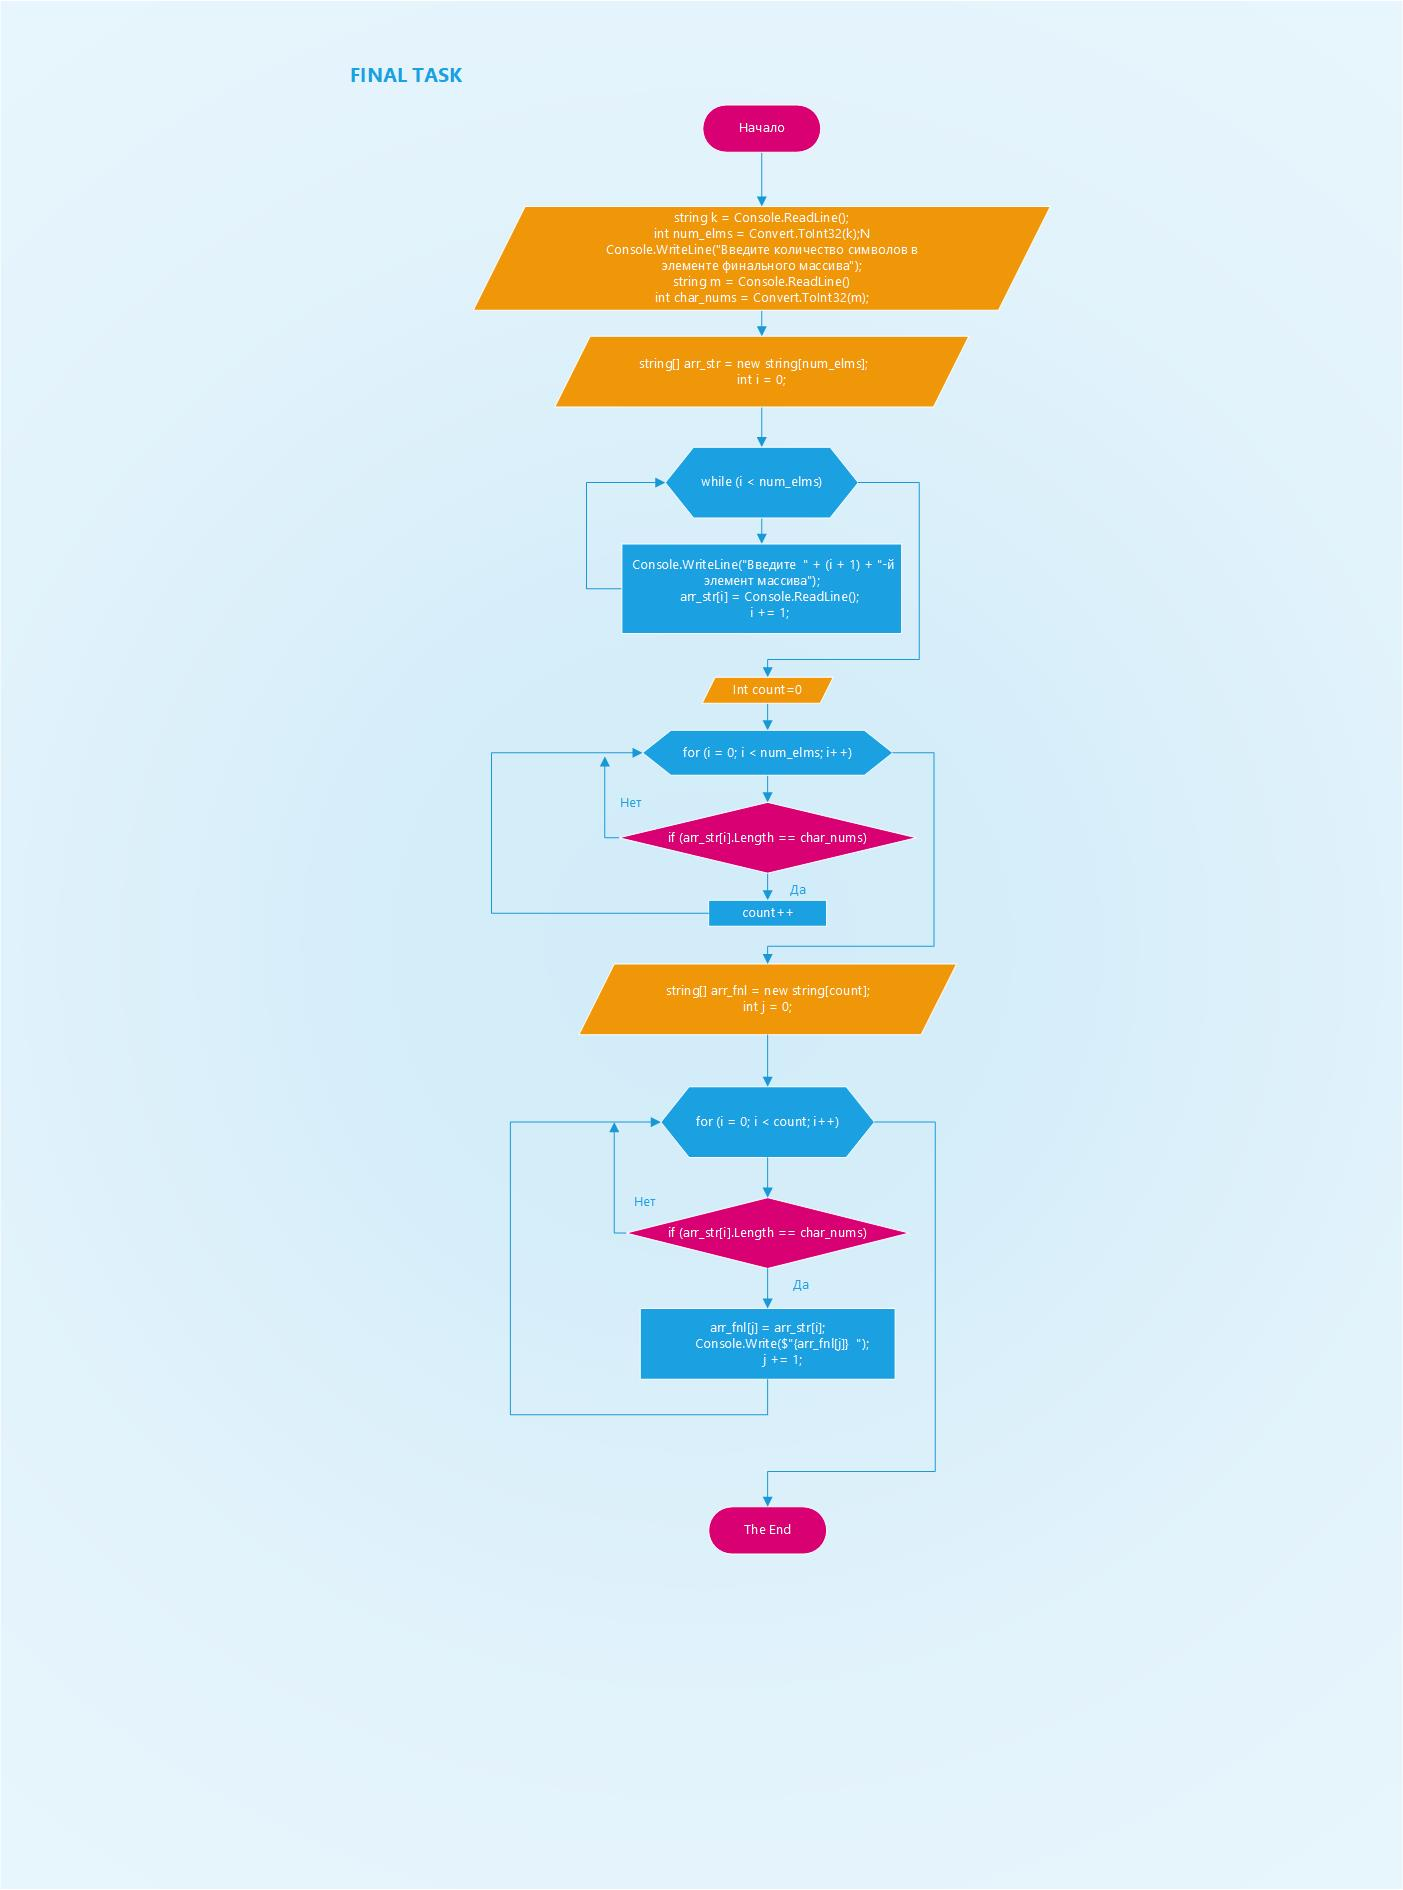
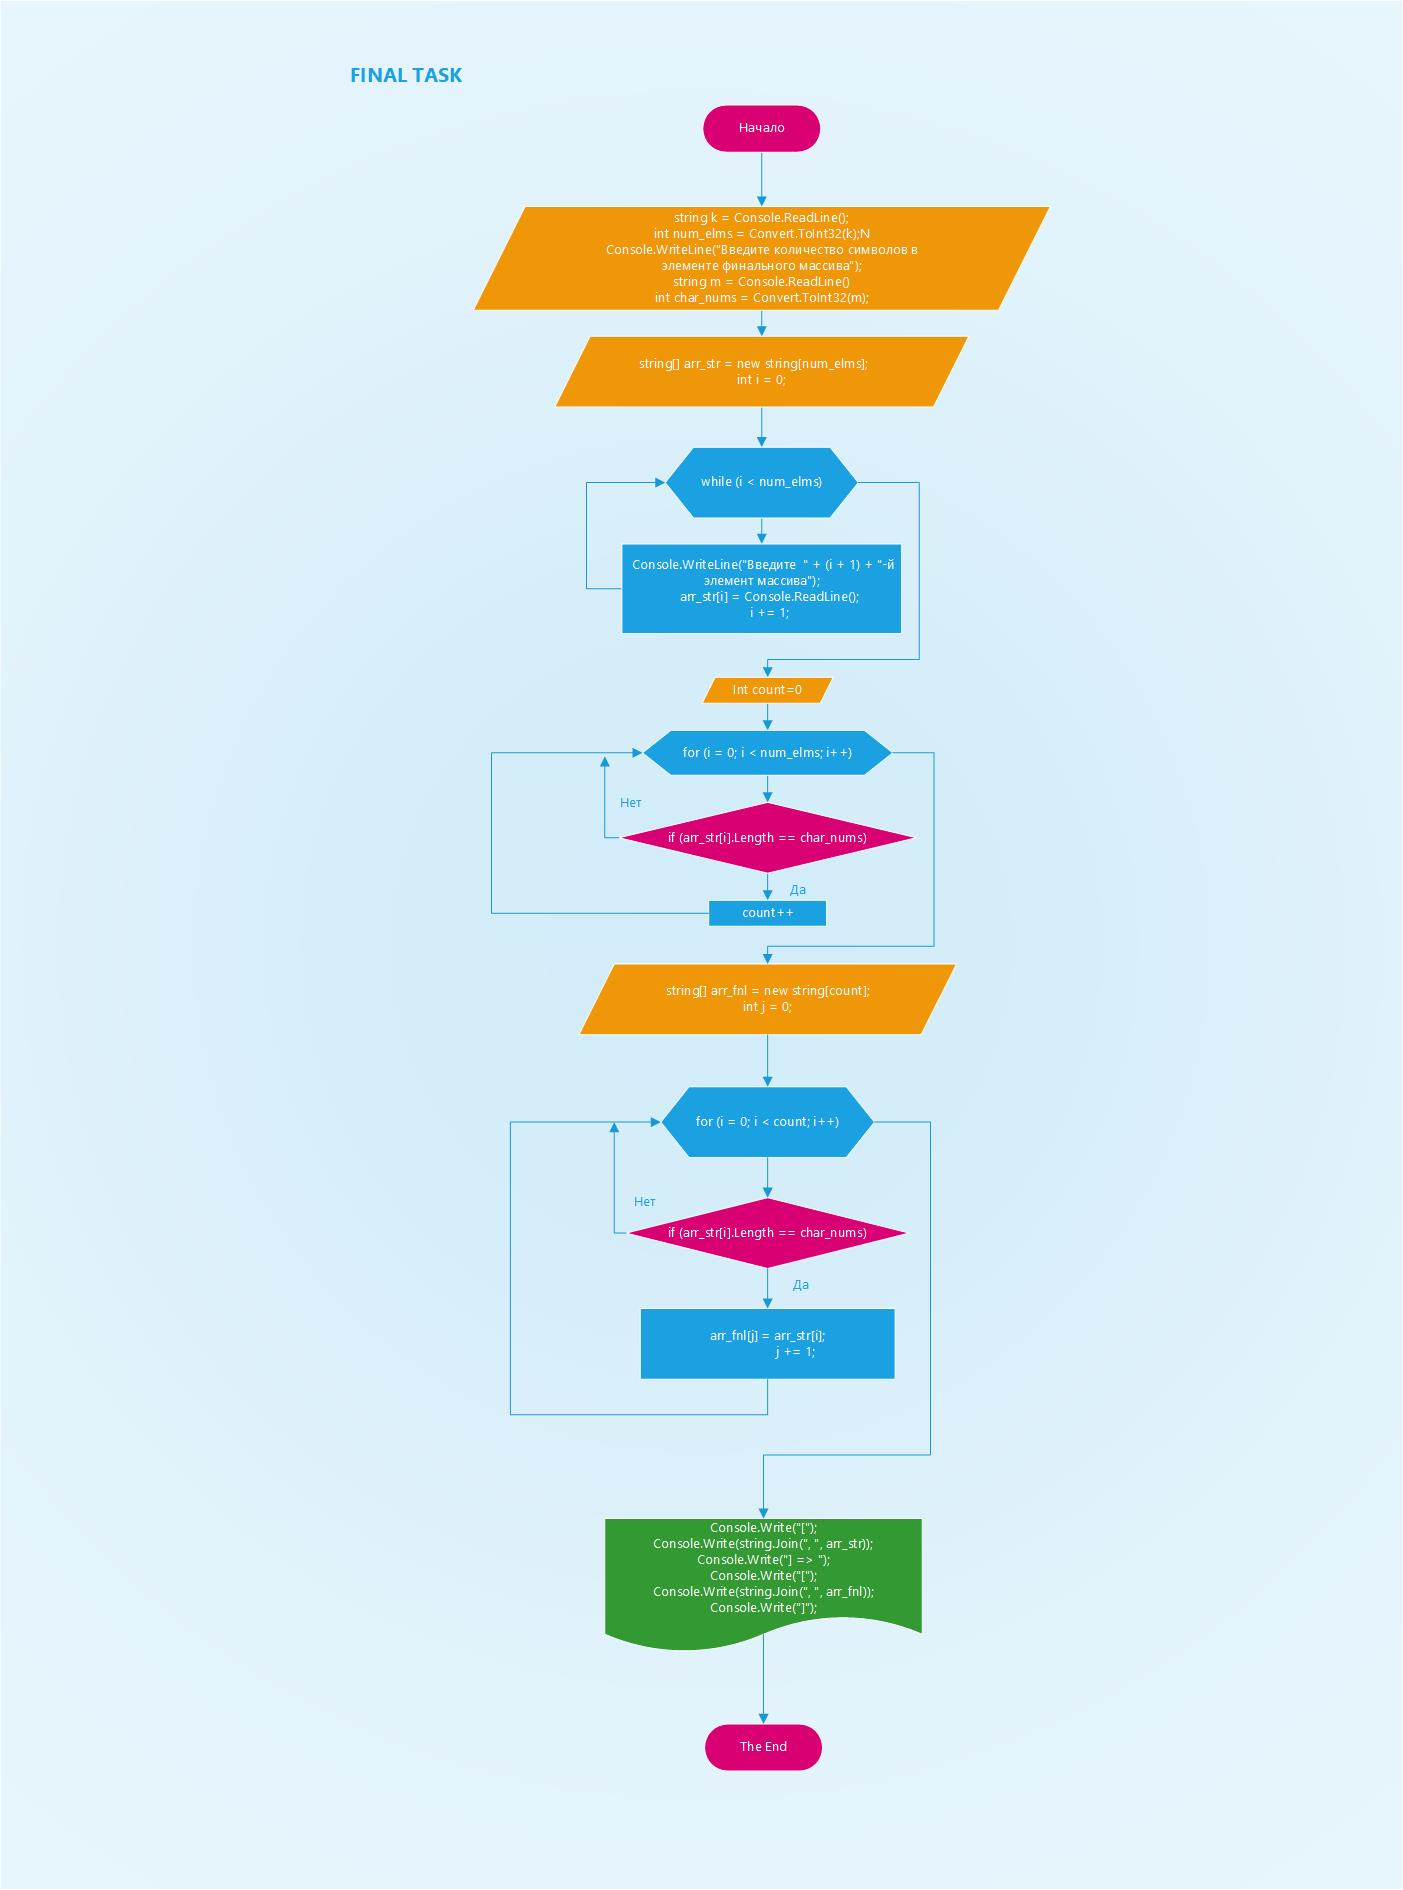
FINAL-FINAL

Changed region(s): [[0.4291, 0.7492, 0.6743, 0.8741], [0.4904, 0.6868, 0.613, 0.718], [0.4904, 0.9053, 0.5823, 0.9365]]

diff --git a/Program.cs b/Program.cs
@@ -1,10 +1,10 @@
-// 1  Создаем ввод с консоли элементов массива
-// 1.1 Вводим количество элементов массива
+//1  Создаем ввод с консоли элементов массива
+//1.1 Вводим количество элементов массива
 Console.WriteLine("Введите количество элементов массива");
 string k = Console.ReadLine();
 int num_elms = Convert.ToInt32(k);
 
-// 1.2 Вводим количество символов в элементе финального массива
+//1.2 Вводим количество символов в элементе финального массива
 Console.WriteLine("Введите количество символов в элементе финального массива");
 string m = Console.ReadLine();
 int char_nums = Convert.ToInt32(m);
@@ -39,7 +39,12 @@ for (i = 0; i < count; i++)
     if (arr_str[i].Length == char_nums)
     {
         arr_fnl[j] = arr_str[i];
-        Console.Write($"{arr_fnl[j]}  ");
         j += 1;
     }
 }
+Console.Write("[");
+Console.Write(string.Join(", ", arr_str));
+Console.Write("] => ");
+Console.Write("[");
+Console.Write(string.Join(", ", arr_fnl));
+Console.Write("]");
